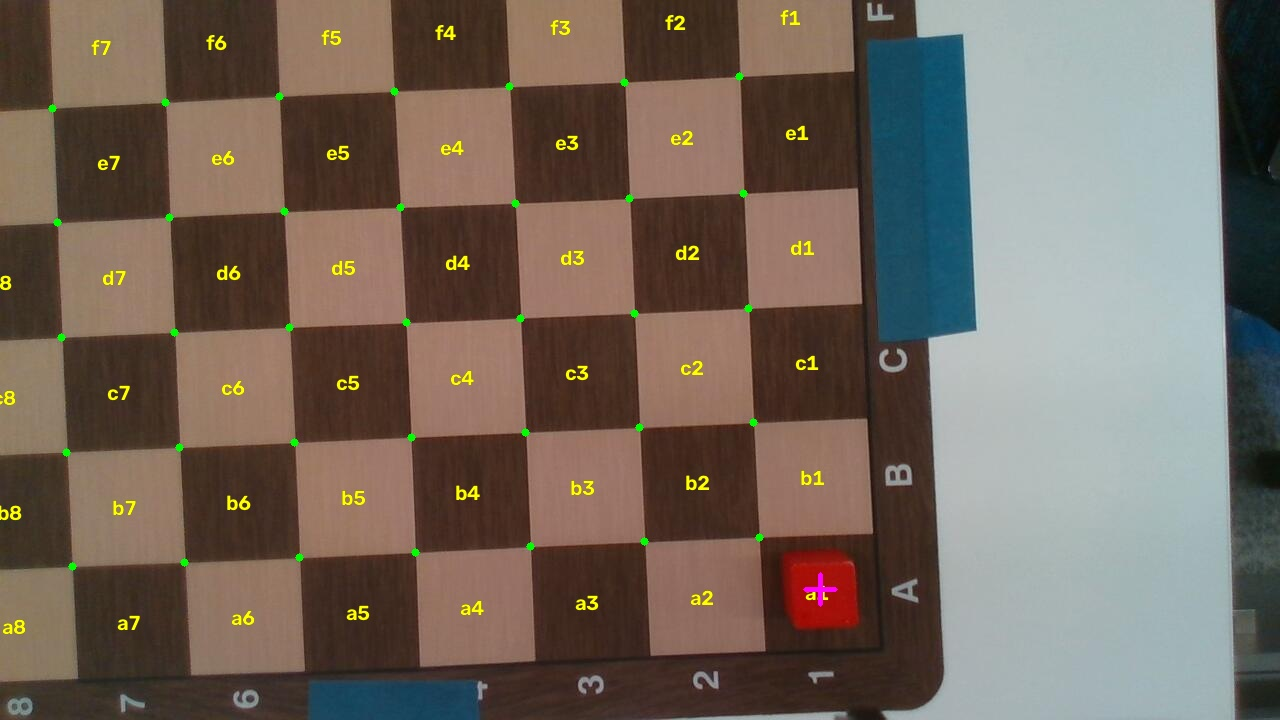
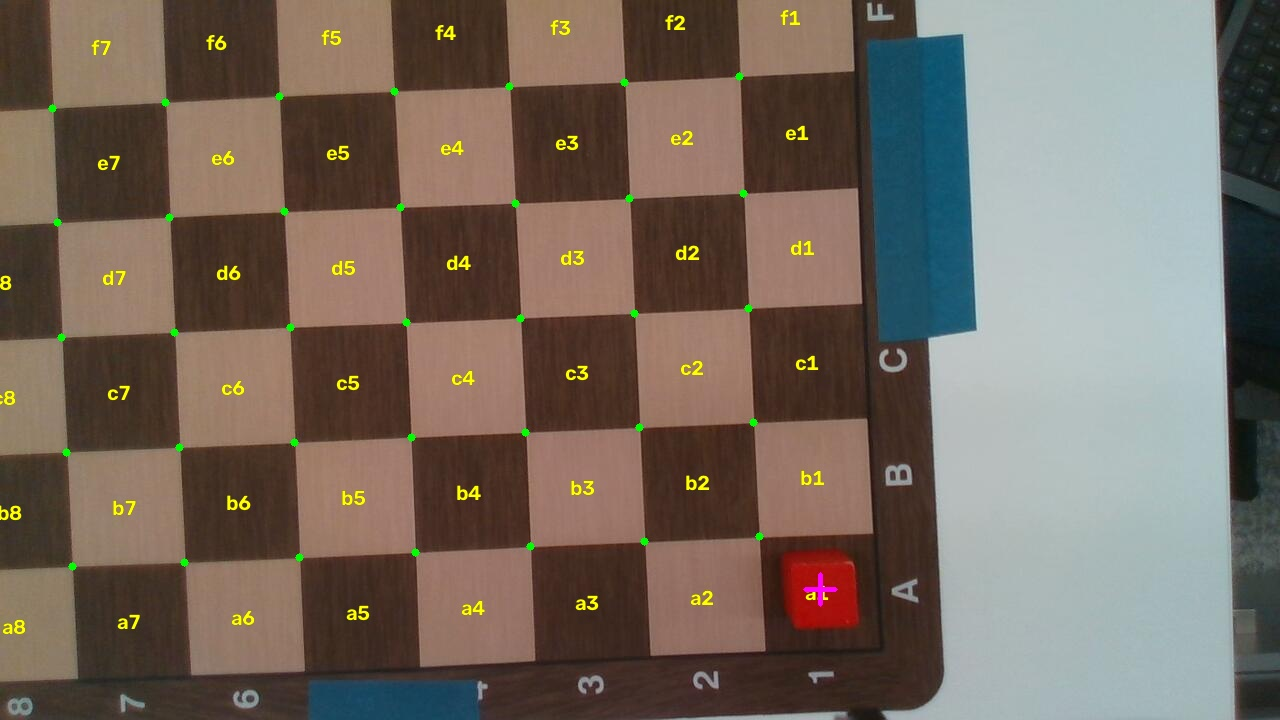
Reference all heights to the table
Add table z and mat thickness to the workspace; locate-mat now traces
lines of sight to the known mat surface and reports depth only as a
cross-check, warning when the two disagree. Planner rejects grip heights
at or below the mat.

diff --git a/src/robotic_experiments/blocks/locate_mat.py b/src/robotic_experiments/blocks/locate_mat.py
@@ -5,8 +5,9 @@ whole board, but must see the a1 corner), then:
 
     uv run locate-mat
 
-It finds the chessboard's inner corners in the color image, projects them onto the mat
-plane fitted from depth, converts them to `world`, and fits the board. The red block marks
+It finds the chessboard's inner corners in the color image, traces each one's line of sight
+in `world` down to the mat surface (table z + mat thickness, from the workspace config), and
+fits the board. Depth is used only as a cross-check of the camera's height above the mat. The red block marks
 a1; standard board handedness (files left->right, ranks bottom->top from white's side)
 fixes which direction is files. Results go to config/mat_calibration.json together with
 an annotated image to check by eye against the printed labels.
@@ -26,6 +27,7 @@ from viam.components.arm import Arm
 from viam.components.camera import Camera
 from viam.proto.common import Pose, PoseInFrame
 
+from robotic_experiments.blocks import workspace
 from robotic_experiments.connection import connect
 
 ARM = "arm"
@@ -35,6 +37,8 @@ OUT_JSON = Path("config/mat_calibration.json")
 OUT_IMAGE = Path("config/mat_calibration.jpg")
 PATTERNS = [(7, 7), (7, 6), (6, 7), (7, 5), (5, 7), (6, 6), (6, 5), (5, 6), (5, 5)]
 DEPTH_WINDOW = 3  # half-size of the window used to sample depth around a pixel
+DEPTH_DISAGREEMENT_WARN_MM = 10.0
+DEFAULT_WORKSPACE = "config/workspace.toml"
 
 
 class LocateError(Exception):
@@ -113,9 +117,6 @@ class MatFit:
     a8: tuple[float, float]
     square_size_mm: float
     file_yaw_deg: float  # direction a1 -> h1, measured from world +x toward +y
-    mat_z: float
-    block_top_z: float
-    block_height_mm: float
     block_xy: tuple[float, float]
     block_offset_from_a1_mm: float
     residual_rms_mm: float
@@ -141,7 +142,7 @@ def orient_lattice(world: np.ndarray, block_xy: np.ndarray) -> np.ndarray:
 
 
 def fit_board(world: np.ndarray, block_world: np.ndarray) -> MatFit:
-    """world: (rows, cols, 3) inner corners in `world`; block_world: block top center."""
+    """world: (rows, cols, 3) inner corners in `world`; block_world: block top center. Only x/y are used."""
     block_xy = block_world[:2]
     lat = orient_lattice(world, block_xy)
     ranks, files = lat.shape[:2]
@@ -175,16 +176,12 @@ def fit_board(world: np.ndarray, block_world: np.ndarray) -> MatFit:
     if problems:
         raise LocateError("; ".join(problems))
 
-    mat_z = float(lat[..., 2].mean())
     return MatFit(
         a1=tuple(map(float, a1)),
         h1=tuple(map(float, center(7, 0))),
         a8=tuple(map(float, center(0, 7))),
         square_size_mm=float((size_f + size_r) / 2),
         file_yaw_deg=math.degrees(math.atan2(fs[1], fs[0])),
-        mat_z=mat_z,
-        block_top_z=float(block_world[2]),
-        block_height_mm=float(block_world[2]) - mat_z,
         block_xy=tuple(map(float, block_xy)),
         block_offset_from_a1_mm=offset,
         residual_rms_mm=residual,
@@ -233,7 +230,24 @@ async def to_world(machine, pts_cam: np.ndarray) -> np.ndarray:
     return np.array(out)
 
 
-async def capture_and_fit() -> tuple[MatFit, np.ndarray]:
+async def to_plane(machine, ray_dirs: np.ndarray, plane_z: float) -> np.ndarray:
+    """Intersect camera rays (camera frame, z = 1) with the horizontal plane z = plane_z in `world`."""
+    ends = await to_world(machine, np.vstack([[0.0, 0.0, 0.0], ray_dirs * 500.0]))
+    origin, far = ends[0], ends[1:]
+    t = (plane_z - origin[2]) / (far[:, 2] - origin[2])
+    return origin + t[:, None] * (far - origin)
+
+
+@dataclass
+class DepthCheck:
+    """What depth alone says, compared with the configured table. Diagnostic only."""
+
+    mat_z: float
+    disagreement_mm: float  # depth-measured mat z minus configured mat z
+    block_height_mm: float
+
+
+async def capture_and_fit(ws: workspace.Workspace) -> tuple[MatFit, DepthCheck, np.ndarray]:
     async with await connect() as machine:
         if await Arm.from_robot(machine, ARM).is_moving():
             raise LocateError("arm is moving; wait for it to stop")
@@ -253,36 +267,58 @@ async def capture_and_fit() -> tuple[MatFit, np.ndarray]:
         corners = find_corners(cv2.cvtColor(bgr, cv2.COLOR_BGR2GRAY))
         rows, cols = corners.shape[:2]
         px = corners.reshape(-1, 2)
-        depths = np.array([sample_depth(depth, u, v) for u, v in px])
-        on_plane = project_onto_plane(px, depths, intr)
-
         block_px = find_red_block(bgr)
-        block_cam = rays(np.array([block_px]), *intr)[0] * sample_depth(depth, *block_px)
 
-        world = (await to_world(machine, np.vstack([on_plane, block_cam]))).astype(float)
-    world_lattice = world[:-1].reshape(rows, cols, 3)
-    fit = fit_board(world_lattice, world[-1])
-    image = annotate(bgr, corners, world_lattice, block_px, world[-1][:2])
-    return fit, image
+        # Positions: line of sight to the known surfaces.
+        world_corners = await to_plane(machine, rays(px, *intr), ws.mat_top_z)
+        block_world = (await to_plane(machine, rays(np.array([block_px]), *intr), ws.mat_top_z + ws.block_size_mm))[0]
+
+        # Cross-check: where depth alone puts the mat and the block top.
+        depths = np.array([sample_depth(depth, u, v) for u, v in px])
+        depth_mat_center = project_onto_plane(px, depths, intr).mean(axis=0)
+        depth_block = rays(np.array([block_px]), *intr)[0] * sample_depth(depth, *block_px)
+        depth_mat_z, depth_block_z = (await to_world(machine, np.vstack([depth_mat_center, depth_block])))[:, 2]
+
+    world_lattice = world_corners.reshape(rows, cols, 3)
+    fit = fit_board(world_lattice, block_world)
+    check = DepthCheck(
+        mat_z=float(depth_mat_z),
+        disagreement_mm=float(depth_mat_z - ws.mat_top_z),
+        block_height_mm=float(depth_block_z - depth_mat_z),
+    )
+    image = annotate(bgr, corners, world_lattice, block_px, block_world[:2])
+    return fit, check, image
 
 
 def main() -> None:
     parser = argparse.ArgumentParser(description=__doc__, formatter_class=argparse.RawDescriptionHelpFormatter)
-    parser.parse_args()
+    parser.add_argument("--workspace", default=DEFAULT_WORKSPACE, help="workspace TOML (default: %(default)s)")
+    args = parser.parse_args()
+    ws = workspace.load(args.workspace)
     try:
-        fit, image = asyncio.run(capture_and_fit())
+        fit, check, image = asyncio.run(capture_and_fit(ws))
     except LocateError as e:
         raise SystemExit(f"Could not locate the mat: {e}")
 
-    OUT_JSON.write_text(json.dumps({**asdict(fit), "recorded_at": datetime.now().isoformat(timespec="seconds")}, indent=2) + "\n")
+    OUT_JSON.write_text(json.dumps({
+        **asdict(fit),
+        "mat_top_z": ws.mat_top_z,
+        "depth_check": asdict(check),
+        "recorded_at": datetime.now().isoformat(timespec="seconds"),
+    }, indent=2) + "\n")
     cv2.imwrite(str(OUT_IMAGE), image)
-    print(f"Mat located from {fit.corners_used} corners (fit residual {fit.residual_rms_mm:.2f} mm):")
+    print(f"Mat located from {fit.corners_used} corners (fit residual {fit.residual_rms_mm:.2f} mm),")
+    print(f"on the mat surface z = {ws.mat_top_z:.1f} (table {ws.table_z:.1f} + mat {ws.mat_thickness_mm:.1f}):")
     print(f"  a1 = [{fit.a1[0]:.1f}, {fit.a1[1]:.1f}]")
     print(f"  h1 = [{fit.h1[0]:.1f}, {fit.h1[1]:.1f}]")
     print(f"  a8 = [{fit.a8[0]:.1f}, {fit.a8[1]:.1f}]")
     print(f"  square size {fit.square_size_mm:.1f} mm, files point {fit.file_yaw_deg:.1f}° from world +x")
-    print(f"  mat surface z = {fit.mat_z:.1f}, block top z = {fit.block_top_z:.1f} -> block height {fit.block_height_mm:.1f} mm")
     print(f"  block is {fit.block_offset_from_a1_mm:.1f} mm from the computed a1 center")
+    print(f"Depth check: depth puts the mat at z = {check.mat_z:.1f} ({check.disagreement_mm:+.1f} mm vs config), "
+          f"block height {check.block_height_mm:.1f} mm")
+    if abs(check.disagreement_mm) > DEPTH_DISAGREEMENT_WARN_MM:
+        print(f"  WARNING: depth and the configured table disagree by {abs(check.disagreement_mm):.0f} mm. Either the table z "
+              "or the camera's mounting offset is wrong, and x/y above inherit that error. Resolve before trusting them.")
     print(f"Saved {OUT_JSON} and {OUT_IMAGE} — check the square labels in the image match the mat.")
 
 

diff --git a/src/robotic_experiments/blocks/workspace.py b/src/robotic_experiments/blocks/workspace.py
@@ -37,6 +37,9 @@ class Workspace:
     calibrated: bool
     frame: str
 
+    table_z: float  # table top in world: the reference every height is measured from
+    mat_thickness_mm: float
+
     # Recorded centers of three corner squares.
     a1: Vec2
     h1: Vec2
@@ -63,6 +66,10 @@ class Workspace:
 
     required_obstacles: tuple[str, ...]
     arrival_tolerance_mm: float
+
+    @property
+    def mat_top_z(self) -> float:
+        return self.table_z + self.mat_thickness_mm
 
     @property
     def file_step(self) -> Vec2:
@@ -126,6 +133,8 @@ class Workspace:
                     out.append(f"pickup {i} ({s}) is {math.dist(p, q):.1f} mm from {label}, need {needed:.1f} mm")
             named.append((f"pickup {i} ({s})", p))
 
+        if self.grip_z <= self.mat_top_z:
+            out.append(f"grip_z {self.grip_z} is at or below the mat surface (z = {self.mat_top_z})")
         if self.travel_z < self.grip_z + self.approach_height_mm:
             out.append("travel_z must be at or above grip_z + approach_height_mm")
         if self.approach_height_mm < self.block_size_mm:
@@ -143,6 +152,8 @@ def load(path: str | Path) -> Workspace:
     return Workspace(
         calibrated=bool(d.get("calibrated", False)),
         frame=d.get("frame", "world"),
+        table_z=float(d["table"]["z"]),
+        mat_thickness_mm=float(m["thickness_mm"]),
         a1=tuple(m["a1"]),
         h1=tuple(m["h1"]),
         a8=tuple(m["a8"]),

diff --git a/tests/test_locate_mat.py b/tests/test_locate_mat.py
@@ -29,7 +29,6 @@ def test_fit_recovers_board_in_any_orientation(yaw):
     assert fit.a1 == pytest.approx(tuple(A1))
     assert math.dist(fit.h1, fit.a1) == pytest.approx(7 * SQUARE)
     assert fit.file_yaw_deg == pytest.approx(yaw if yaw != -180 else 180)
-    assert fit.block_height_mm == pytest.approx(30.0)
 
 
 @pytest.mark.parametrize("flip_rows,flip_cols,transpose", [(1, 0, 0), (0, 1, 0), (1, 1, 0), (0, 0, 1), (1, 0, 1)])
